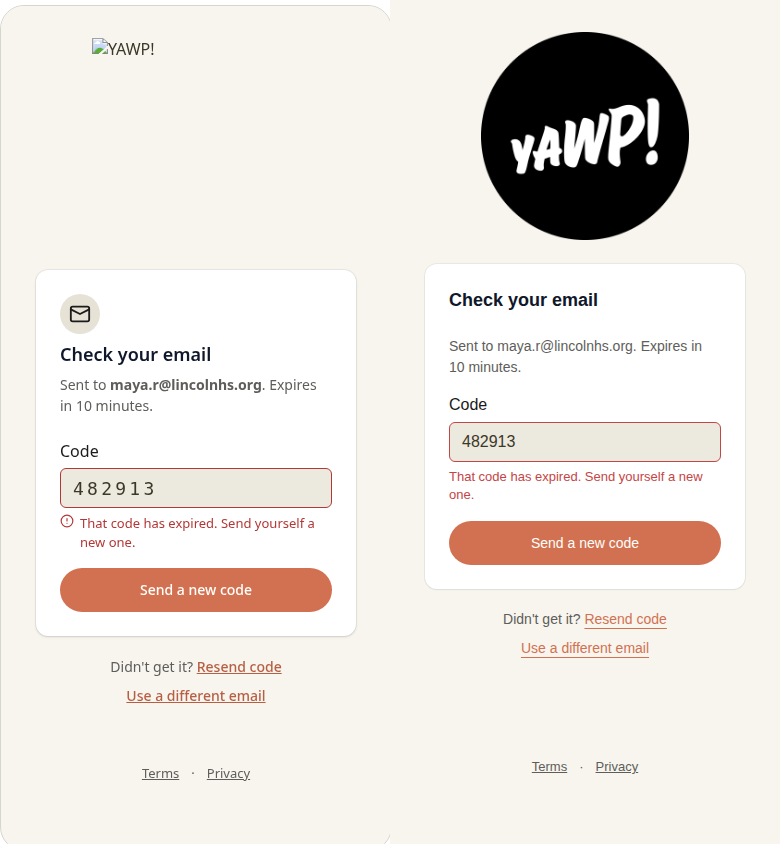
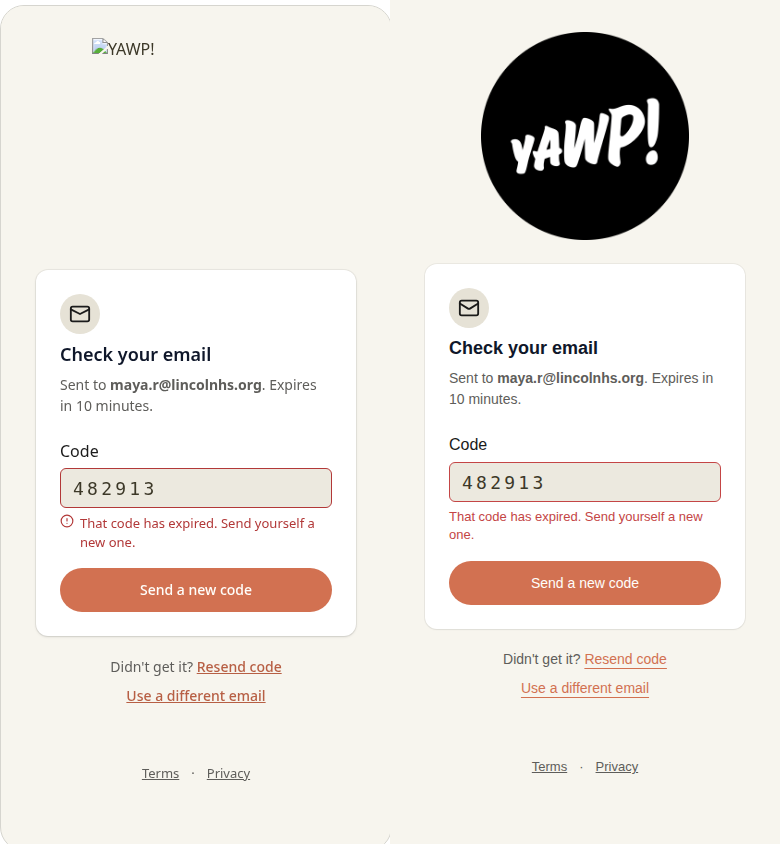
docs: refresh email-code and membership review evidence

Changed region(s): [[0.5538, 0.3389, 0.9231, 0.8318]]

diff --git a/docs/design/unified-signon.md b/docs/design/unified-signon.md
@@ -108,7 +108,7 @@ The existing required-password action retains its `/app` destination; PR 3 owns
 any new server-held destination handoff through password reset/OAuth steps.
 
 
-Validation: 70 targeted unit/route checks; seven fixture browser tests; thirteen
+Original implementation validation: 70 targeted unit/route checks; seven fixture browser tests; thirteen
 server-backed compatibility/status checks (the enabled-entry check reran alone
 after correcting an overbroad assertion about client-hint preference cookies).
 The live enabled-entry test verifies no new database sessions and no HTTP-only
@@ -121,3 +121,35 @@ excluded from default app-server discovery. Broad default `--list` also loads
 unrelated existing Bun-only and database-dependent specs and could not complete
 in plain Node discovery without their setup. Those broader checks are left to
 CI; this item used the targeted configurations above.
+
+## Ship Review corrections (di-signon-ui)
+
+The rejected review in the lane's `state/REVIEW.md` is addressed on the same PR.
+The feature-flag HTTP expectations now include `unified-sign-on` and explicitly
+assert persisted/effective off with no runtime override. Both class signup entry
+paths use the same account-mode decision and retain class context and destination.
+A transition-only email-class fixture complements the handle-class design fixture;
+it is available only in the standalone fixture server. Expired-code resend clears
+the expired presentation variant and error before returning to verification. All
+OTP results remain in-memory fixture data with no delivery or authentication.
+
+Email-code screens now include the 40px envelope badge, 22px icon, 8px heading
+gaps, 24px copy-to-fields gap, and 18px monospaced code with 3.24px letter spacing.
+Membership options use white outlined horizontal rows, 12px column gaps,
+14px/16px padding, 15px organization text, 12px role pills and 16px chevrons,
+with 10px between rows. Measurements were checked against the corresponding v2
+DOM exports; the unchanged design PNG crops remain the comparison references.
+The new scoped styles do not change shared auth components or flag-off pages.
+
+Regression coverage adds both handle/email class transitions, expired → resend
+→ verify, and desktop/mobile geometry plus keyboard membership selection.
+Current local validation: 90 targeted unit/route tests, full project typecheck,
+and 12 standalone Playwright tests with one worker. The full fixture run captures
+all 210 comparisons; the 18 comparisons for signon-13/14/27/28 are refreshed and
+committed for review. The lane evidence's `review-fixes/before/` preserves their
+previous images. Prior server-backed compatibility results above were not rerun
+for this presentation/fixture/test-only correction. Hosted QA remains omitted.
+
+One intermediate broad screenshot run had a local Chromium
+`ERR_NETWORK_CHANGED` loading fixture modules; its remaining 11 tests passed.
+Final results are recorded in the lane evidence `checks/review-fixes/`.
